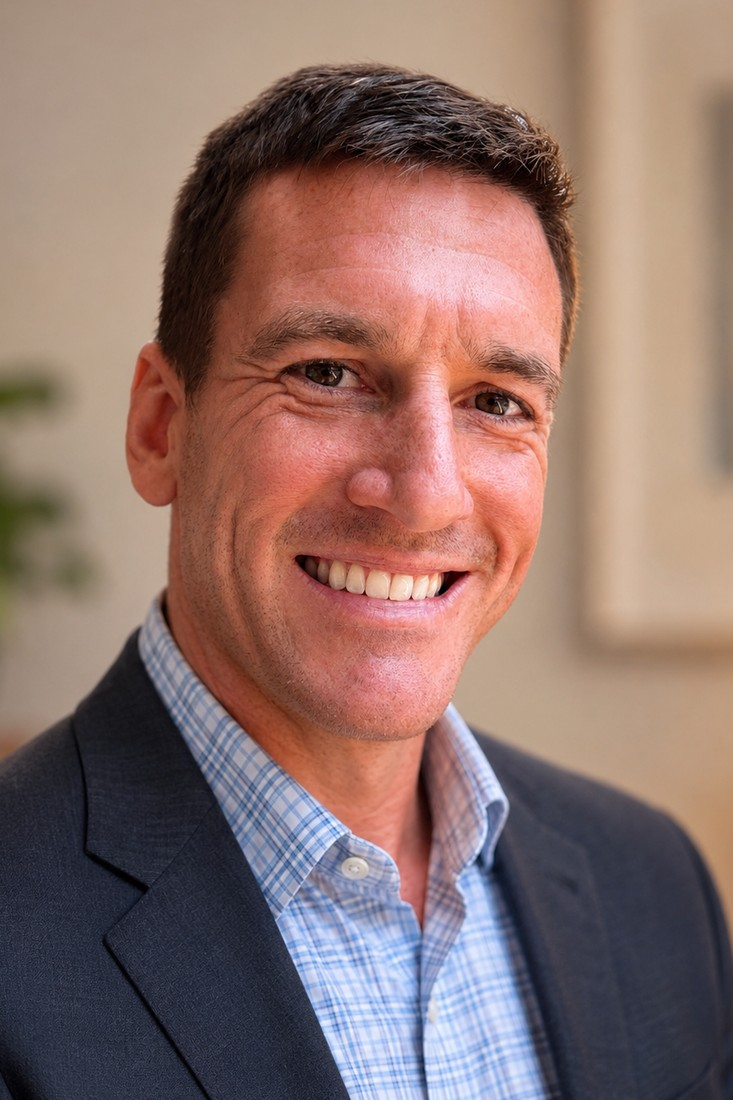
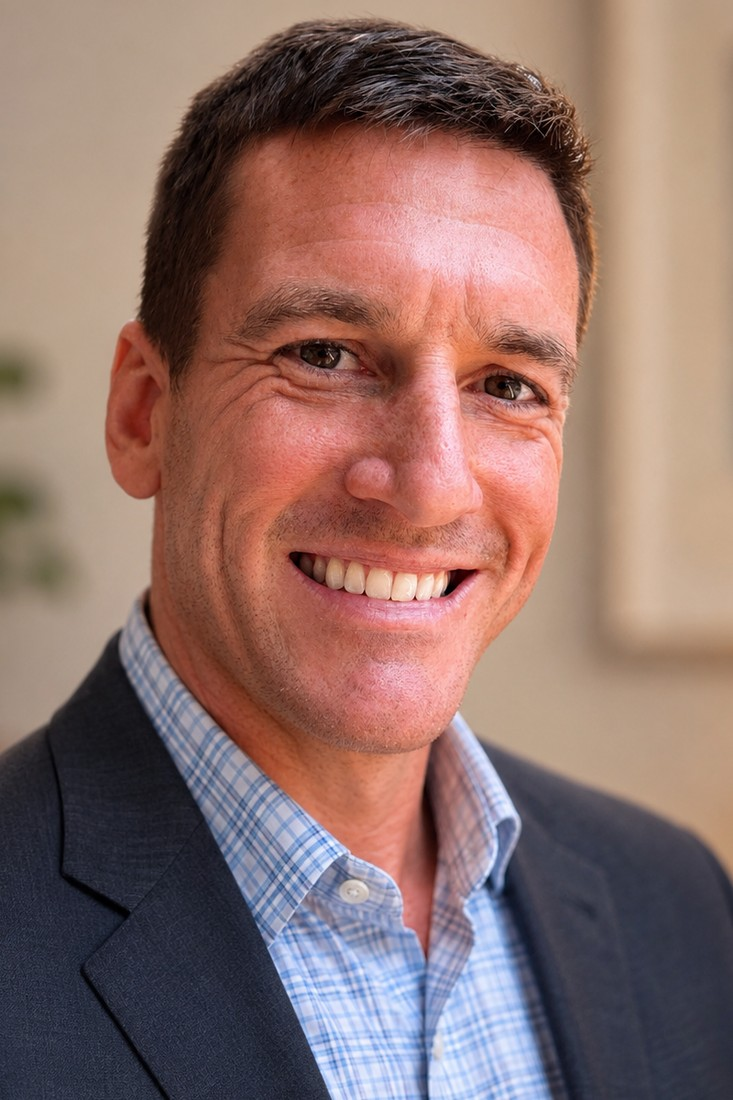
clinicians: tighten Ben's crop to match Elasha's headroom (v3)

diff --git a/clinicians.html b/clinicians.html
@@ -95,7 +95,7 @@
       <article class="person" id="gadbaw">
         <div class="portrait">
           <figure class="figure">
-            <img src="assets/img/ben-gadbaw.jpg?v=2" alt="Benjamin J. Gadbaw" />
+            <img src="assets/img/ben-gadbaw.jpg?v=3" alt="Benjamin J. Gadbaw" />
           </figure>
           <ul class="cred-list">
             <li>M.A., Psychology — California Institute of Integral Studies</li>